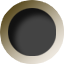
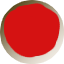
pocket image changed

diff --git a/android-app/src/com/thoughtworks/mm/level/Level.java b/android-app/src/com/thoughtworks/mm/level/Level.java
@@ -2,6 +2,15 @@ package com.thoughtworks.mm.level;
 
 import java.io.IOException;
 
+import android.os.Handler;
+import android.os.Message;
+import android.widget.Toast;
+import com.badlogic.gdx.physics.box2d.Body;
+import com.badlogic.gdx.physics.box2d.BodyDef.BodyType;
+import com.thoughtworks.mm.MarbleMazeActivity;
+import com.thoughtworks.mm.entity.Ball;
+import com.thoughtworks.mm.entity.Pocket;
+import com.thoughtworks.mm.entity.Trap;
 import org.anddev.andengine.engine.handler.timer.ITimerCallback;
 import org.anddev.andengine.engine.handler.timer.TimerHandler;
 import org.anddev.andengine.entity.scene.Scene;
@@ -11,141 +20,130 @@ import org.anddev.andengine.extension.physics.box2d.PhysicsFactory;
 import org.anddev.andengine.level.LevelLoader;
 import org.anddev.andengine.level.LevelLoader.IEntityLoader;
 import org.anddev.andengine.level.util.constants.LevelConstants;
-import org.anddev.andengine.opengl.texture.Texture;
-import org.anddev.andengine.opengl.texture.TextureOptions;
 import org.anddev.andengine.opengl.texture.region.TextureRegionFactory;
 import org.anddev.andengine.opengl.texture.region.TiledTextureRegion;
 import org.anddev.andengine.util.Debug;
 import org.anddev.andengine.util.SAXUtils;
 import org.xml.sax.Attributes;
 
-import android.os.Handler;
-import android.os.Message;
-import android.widget.Toast;
-
-import com.badlogic.gdx.physics.box2d.Body;
-import com.badlogic.gdx.physics.box2d.BodyDef.BodyType;
-import com.thoughtworks.mm.MarbleMazeActivity;
-import com.thoughtworks.mm.entity.Ball;
-import com.thoughtworks.mm.entity.Pocket;
-
 public class Level {
 
-	static final String TAG_ENTITY = "entity";
-	static final String TAG_ENTITY_ATTRIBUTE_X = "x";
-	static final String TAG_ENTITY_ATTRIBUTE_Y = "y";
-	static final String TAG_ENTITY_ATTRIBUTE_WIDTH = "width";
-	static final String TAG_ENTITY_ATTRIBUTE_HEIGHT = "height";
-	private static final String TAG_ENTITY_ATTRIBUTE_TYPE = "type";
+    static final String TAG_ENTITY = "entity";
+    static final String TAG_ENTITY_ATTRIBUTE_X = "x";
+    static final String TAG_ENTITY_ATTRIBUTE_Y = "y";
+    static final String TAG_ENTITY_ATTRIBUTE_WIDTH = "width";
+    static final String TAG_ENTITY_ATTRIBUTE_HEIGHT = "height";
+    private static final String TAG_ENTITY_ATTRIBUTE_TYPE = "type";
 
-	private TiledTextureRegion mBoxFaceTextureRegion;
-	final MarbleMazeActivity maze;
+    private TiledTextureRegion mBoxFaceTextureRegion;
+    final MarbleMazeActivity maze;
 
-	public Level(MarbleMazeActivity maze) {
-		this.maze = maze;
 
-		this.mBoxFaceTextureRegion = TextureRegionFactory.createTiledFromAsset(
-				maze.getmTexture(), maze, "box.png", 0, 0, 2, 1); // 64x32
-	}
+    Pocket pocket;
+    Ball ball;
 
-	public void createMaze(final Scene scene) {
-		final LevelLoader levelLoader = new LevelLoader();
-		levelLoader.setAssetBasePath("level/");
+    public Level(MarbleMazeActivity maze) {
+        this.maze = maze;
 
-		levelLoader.registerEntityLoader(LevelConstants.TAG_LEVEL,
-				new IEntityLoader() {
-					public void onLoadEntity(final String pEntityName,
-							final Attributes pAttributes) {
-						final int width = SAXUtils.getIntAttributeOrThrow(
-								pAttributes,
-								LevelConstants.TAG_LEVEL_ATTRIBUTE_WIDTH);
-						final int height = SAXUtils.getIntAttributeOrThrow(
-								pAttributes,
-								LevelConstants.TAG_LEVEL_ATTRIBUTE_HEIGHT);
-						Toast.makeText(
-								maze,
-								"Loaded level with width=" + width
-										+ " and height=" + height + ".",
-								Toast.LENGTH_LONG).show();
-					}
-				});
+        this.mBoxFaceTextureRegion = TextureRegionFactory.createTiledFromAsset(
+            maze.getmTexture(), maze, "box.png", 0, 0, 2, 1); // 64x32
+    }
 
-		levelLoader.registerEntityLoader(TAG_ENTITY, new IEntityLoader() {
-			public void onLoadEntity(final String pEntityName,
-					final Attributes pAttributes) {
-				final int x = SAXUtils.getIntAttributeOrThrow(pAttributes,
-						TAG_ENTITY_ATTRIBUTE_X);
-				final int y = SAXUtils.getIntAttributeOrThrow(pAttributes,
-						TAG_ENTITY_ATTRIBUTE_Y);
-				final int width = SAXUtils.getIntAttributeOrThrow(pAttributes,
-						TAG_ENTITY_ATTRIBUTE_WIDTH);
-				final int height = SAXUtils.getIntAttributeOrThrow(pAttributes,
-						TAG_ENTITY_ATTRIBUTE_HEIGHT);
-				final String type = SAXUtils.getAttributeOrThrow(pAttributes,
-						TAG_ENTITY_ATTRIBUTE_TYPE);
-				addObject(scene, x, y, width, height, type);
-			}
-		});
+    public void createMaze(final Scene scene) {
+        final LevelLoader levelLoader = new LevelLoader();
+        levelLoader.setAssetBasePath("level/");
 
-		try {
-			levelLoader.loadLevelFromAsset(maze, "example.lvl");
-		} catch (final IOException e) {
-			Debug.e(e);
-		}
-		
+        levelLoader.registerEntityLoader(LevelConstants.TAG_LEVEL,
+            new IEntityLoader() {
+                public void onLoadEntity(final String pEntityName,
+                                         final Attributes pAttributes) {
+                    final int width = SAXUtils.getIntAttributeOrThrow(
+                        pAttributes,
+                        LevelConstants.TAG_LEVEL_ATTRIBUTE_WIDTH);
+                    final int height = SAXUtils.getIntAttributeOrThrow(
+                        pAttributes,
+                        LevelConstants.TAG_LEVEL_ATTRIBUTE_HEIGHT);
+                    Toast.makeText(
+                        maze,
+                        "Loaded level with width=" + width
+                            + " and height=" + height + ".",
+                        Toast.LENGTH_LONG).show();
+                }
+            });
 
-		scene.registerUpdateHandler(new TimerHandler(0.5f, true,
-				new ITimerCallback() {
-					public void onTimePassed(final TimerHandler pTimerHandler) {
-						if (pocket.contains(ball.getX(), ball.getY())) {
-							handler.sendEmptyMessage(0);
-						}
-					}
-				}));
-	}
-	
-	
-	Pocket pocket;
-	
-	Ball ball;
-	private Handler handler = new Handler() {
-		@Override
-		public void handleMessage(Message msg) {
-			Toast.makeText(maze, "You win!",
-					Toast.LENGTH_SHORT).show();
-		}
-	};
+        levelLoader.registerEntityLoader(TAG_ENTITY, new IEntityLoader() {
+            public void onLoadEntity(final String pEntityName,
+                                     final Attributes pAttributes) {
+                final int x = SAXUtils.getIntAttributeOrThrow(pAttributes,
+                    TAG_ENTITY_ATTRIBUTE_X);
+                final int y = SAXUtils.getIntAttributeOrThrow(pAttributes,
+                    TAG_ENTITY_ATTRIBUTE_Y);
+                final int width = SAXUtils.getIntAttributeOrThrow(pAttributes,
+                    TAG_ENTITY_ATTRIBUTE_WIDTH);
+                final int height = SAXUtils.getIntAttributeOrThrow(pAttributes,
+                    TAG_ENTITY_ATTRIBUTE_HEIGHT);
+                final String type = SAXUtils.getAttributeOrThrow(pAttributes,
+                    TAG_ENTITY_ATTRIBUTE_TYPE);
+                addObject(scene, x, y, width, height, type);
+            }
+        });
 
-	void addObject(final Scene pScene, final float pX, final float pY,
-			final int pWidth, final int pHeight, String type) {
-		final AnimatedSprite face;
+        try {
+            levelLoader.loadLevelFromAsset(maze, "example.lvl");
+        } catch (final IOException e) {
+            Debug.e(e);
+        }
 
-		if (type.equals("box")) {
-			face = new AnimatedSprite(pX, pY, pWidth, pHeight,
-					this.mBoxFaceTextureRegion);
-		} else if (type.equals("pocket")){
-			pocket = new Pocket(pX, pY,
-					maze);
-			face = pocket;
-		}else {
-			
-			ball = new Ball(pX, pY,
-					maze);
-			face =  ball;
-		
-		}
 
-		// face.animate(200);
-		final Body body;
+        scene.registerUpdateHandler(new TimerHandler(0.5f, true,
+            new ITimerCallback() {
+                public void onTimePassed(final TimerHandler pTimerHandler) {
+                    if (pocket.contains(ball.getX(), ball.getY())) {
+                        handler.sendEmptyMessage(0);
+                    }
+                }
+            }));
+    }
 
-		body = PhysicsFactory.createBoxBody(maze.getmPhysicsWorld(), face,
-				BodyType.StaticBody, MarbleMazeActivity.WALL_FIXTURE_DEF);
-		// face.animate(200);
 
-		maze.getmPhysicsWorld().registerPhysicsConnector(
-				new PhysicsConnector(face, body, true, true));
+    private Handler handler = new Handler() {
+        @Override
+        public void handleMessage(Message msg) {
+            Toast.makeText(maze, "You win!",
+                Toast.LENGTH_SHORT).show();
+        }
+    };
 
-		pScene.getLastChild().attachChild(face);
-	}
+    void addObject(final Scene pScene, final float pX, final float pY,
+                   final int pWidth, final int pHeight, String type) {
+        final AnimatedSprite face;
+
+        if (type.equals("box")) {
+            face = new AnimatedSprite(pX, pY, pWidth, pHeight,
+                this.mBoxFaceTextureRegion);
+        } else if (type.equals("pocket")) {
+            pocket = new Pocket(pX, pY,
+                maze);
+            face = pocket;
+        } else if (type.equals("trap")) {
+            face = new Trap(pX, pY, maze);
+        } else {
+            ball = new Ball(pX, pY,  maze);
+            face = ball;
+
+        }
+
+        // face.animate(200);
+        final Body body;
+
+        body = PhysicsFactory.createBoxBody(maze.getmPhysicsWorld(), face,
+            BodyType.StaticBody, MarbleMazeActivity.WALL_FIXTURE_DEF);
+        // face.animate(200);
+
+        maze.getmPhysicsWorld().registerPhysicsConnector(
+            new PhysicsConnector(face, body, true, true));
+
+        pScene.getLastChild().attachChild(face);
+    }
 
 }
